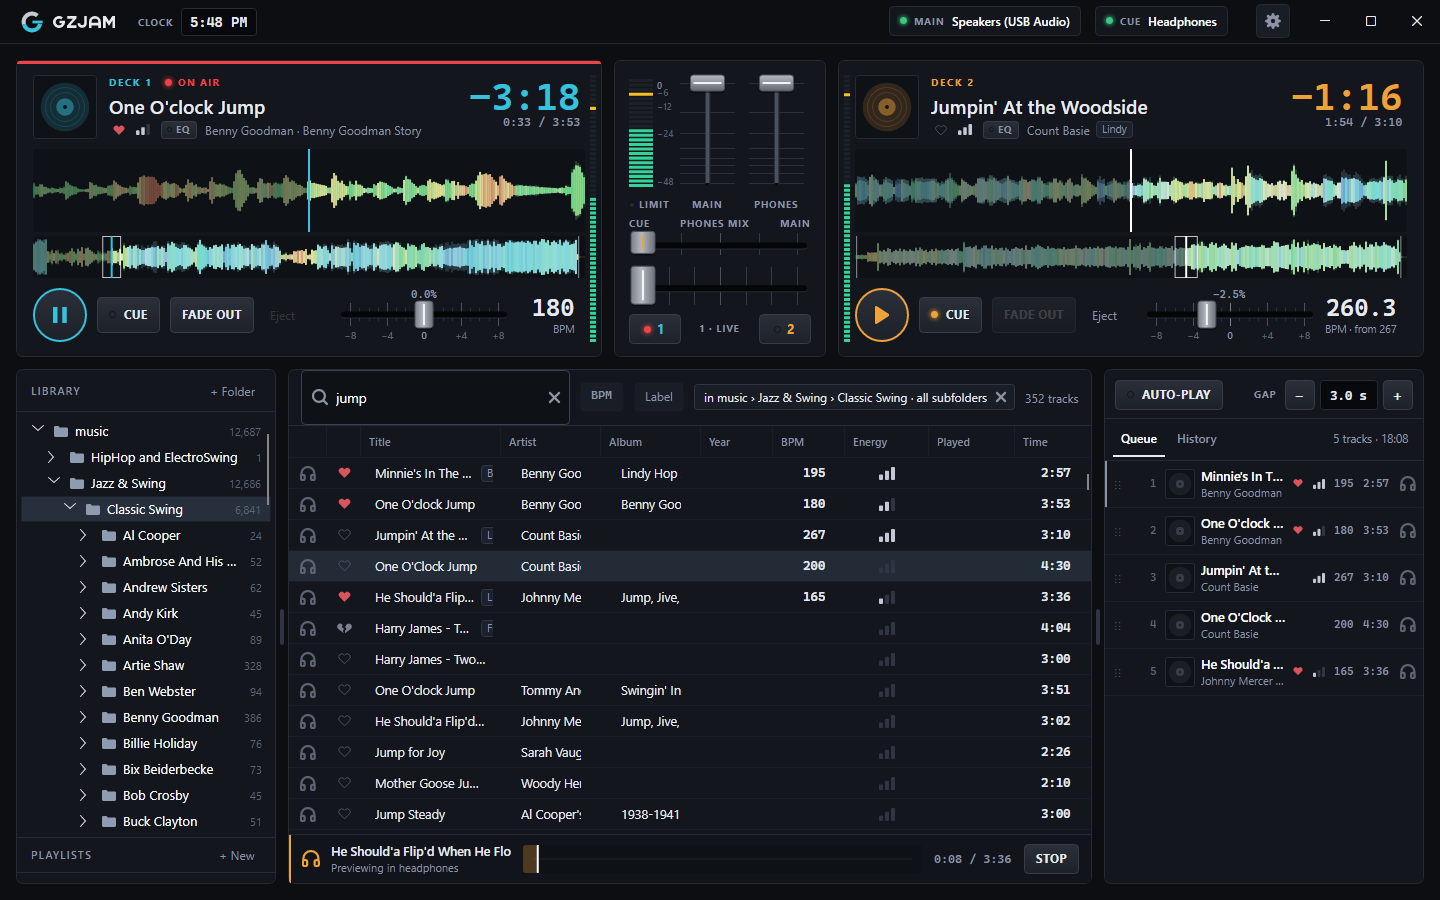
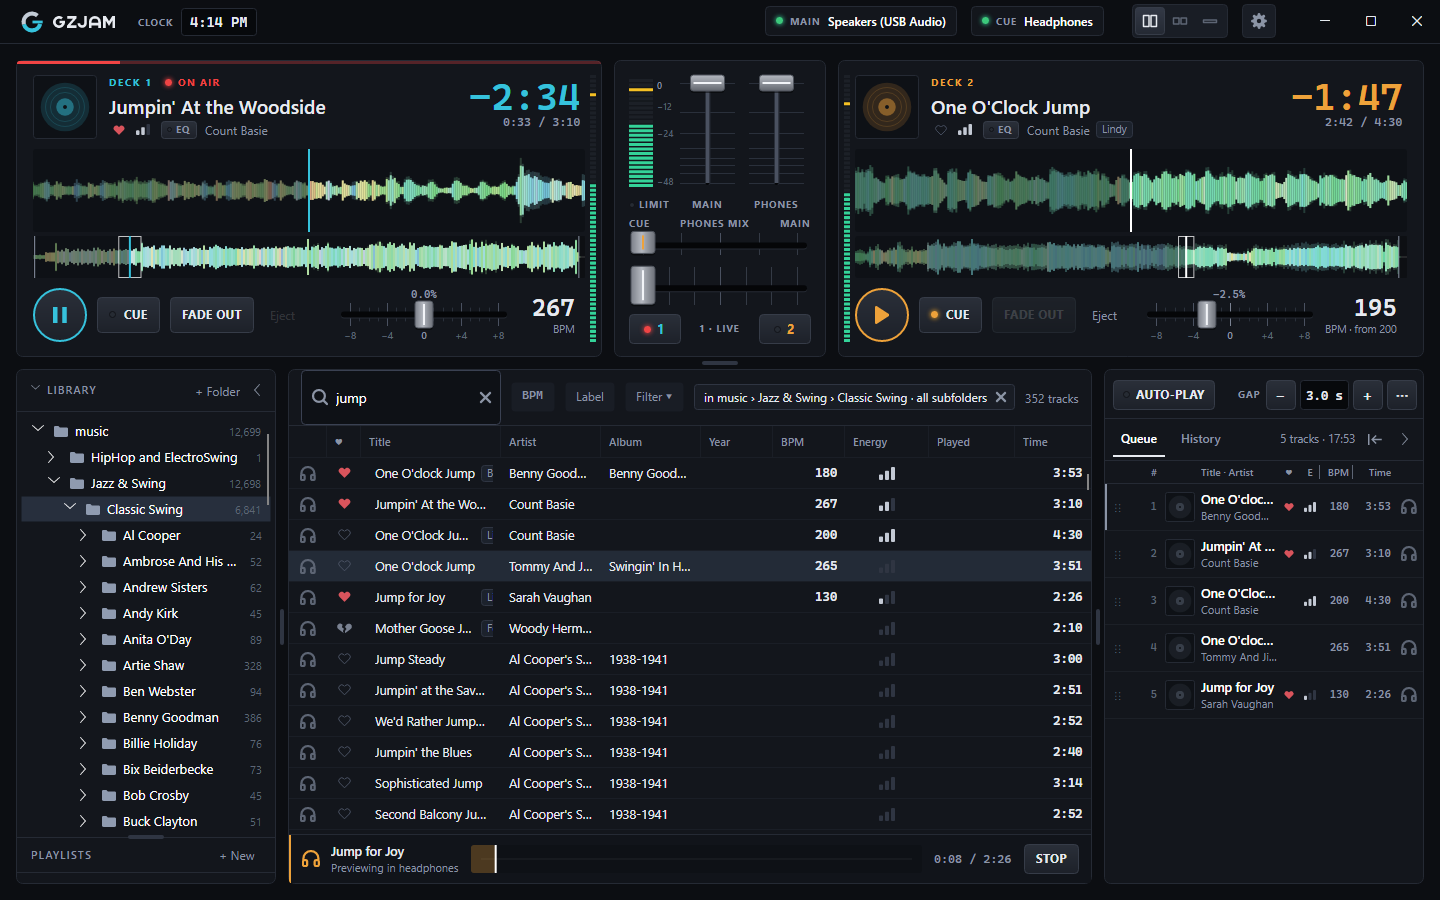
Screenshots as GZJam looks in 1.0: the README picture and the guide's three (#253)
ScreenshotTests moves the pointer off the buttons before the search picture, so no tooltip is caught fading in.

diff --git a/tests/GZJam.App.Tests/ScreenshotTests.cs b/tests/GZJam.App.Tests/ScreenshotTests.cs
@@ -150,8 +150,10 @@ public sealed class ScreenshotTests
         Assert.True(filter.Flyout!.IsOpen, "BPM filter menu didn't open");
         app.Screenshot("11-bpm-filter");
         filter.Flyout.Hide();
+        // The pointer off the buttons, so no tooltip or hover is half drawn over the list
+        app.Window.MouseMove(new Avalonia.Point(app.Window.Bounds.Width - 20, app.Window.Bounds.Height - 20), RawInputModifiers.None);
         library.SearchText = "~bpm:180 -rating:no";
-        AppHarness.Settle();
+        AppHarness.Settle(600);
         app.Screenshot("12-bpm-filtered");
 
         // Suggestions as you type, the Filter button, and the cheat sheet (#241).
